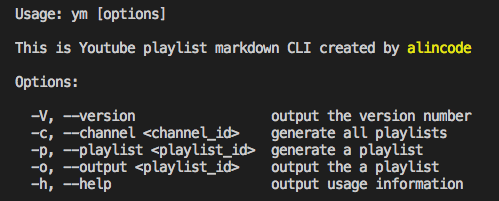
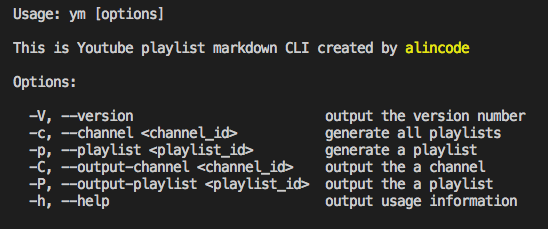
implement output channel info

diff --git a/cli.js b/cli.js
@@ -5,6 +5,7 @@ const chalk = require('chalk');
 const figlet = require('figlet');
 const YoutubePlaylistMarkdown = require('youtube-playlist-markdown');
 const displayPlaylistItem = require('./displayPlaylistItem');
+const displayPlaylist = require('./displayPlaylist');
 
 function successfulMessage(text) {
   console.log(chalk.blue(text));
@@ -22,7 +23,8 @@ program
   .version('0.0.1')
   .option('-c, --channel <channel_id>', 'generate all playlists')
   .option('-p, --playlist <playlist_id>', 'generate a playlist')
-  .option('-o, --output <playlist_id>', 'output the a playlist')
+  .option('-C, --output-channel <channel_id>', 'output the a channel')
+  .option('-P, --output-playlist <playlist_id>', 'output the a playlist')
   .parse(process.argv);
 
 if (!process.argv.slice(2).length) {
@@ -35,9 +37,21 @@ let config = {
 
 const youtubePlaylistMarkdown = new YoutubePlaylistMarkdown(config);
 
-const id = process.argv[3];
+const id = process.argv[process.argv.length - 1];
+// console.log(program);
+console.log('\n\n');
 
-if (program.channel) {
+if (program.outputChannel) {
+  displayPlaylist(config, id)
+    .catch((error) => {
+      failureMessage(error);
+    });
+} else if (program.outputPlaylist) {
+  displayPlaylistItem(config, id)
+    .catch((error) => {
+      failureMessage(error);
+    });
+} else if (program.channel) {
   config.CHANNEL_ID = id;
   youtubePlaylistMarkdown.generatorAll(id)
     .then((result) => {
@@ -54,10 +68,6 @@ if (program.channel) {
     .catch((error) => {
       failureMessage(error);
     });
-} else if (program.output) {
-  console.log('\n\n');
-  displayPlaylistItem(config, id)
-    .catch((error) => {
-      failureMessage(error);
-    });
+} else {
+  successfulMessage('do nothing.')
 }

diff --git a/displayPlaylist.js b/displayPlaylist.js
@@ -1,0 +1,16 @@
+const PlaylistSummary = require('youtube-playlist-summary');
+
+const displayPlaylist = async function (config, channelId) {
+  try {
+    const ps = new PlaylistSummary(config);
+    let playlists = await ps.getPlaylists(channelId);
+    // console.log(`### ${playlist.channelTitle} : ${playlist.playlistTitle}\n`);
+    playlists.items.forEach(function (item, index) {
+      console.log(`* ${item.title}`)
+    });
+  } catch (error) {
+    throw error;
+  }
+}
+
+module.exports = displayPlaylist;

diff --git a/README.md b/README.md
@@ -58,6 +58,12 @@ ym -o PLrG78JjvL7hWqX2FW54Ck8UP45fbWQXcu
 ymr
 ``
 
+### Dev
+
+```
+node cli.js -o "UCsvqVGtbbyHaMoevxPAq9Fg"
+```
+
 ## Relevant Projects
 
 * [youtube-playlist-summary](https://github.com/alincode/youtube-playlist-summary)
